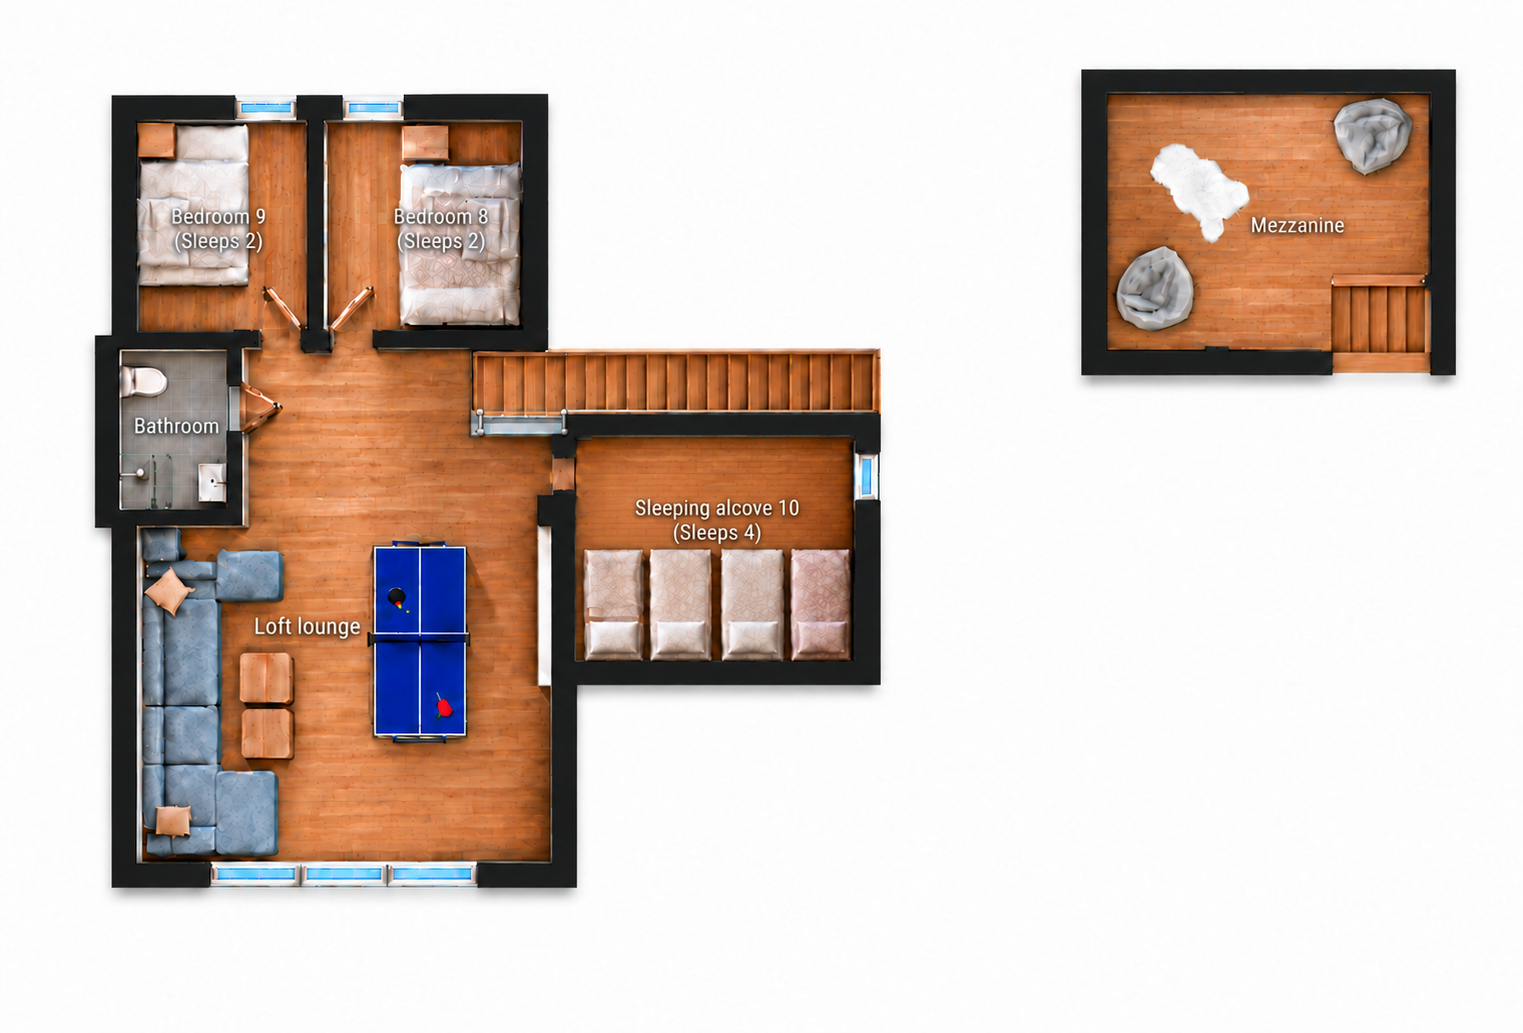
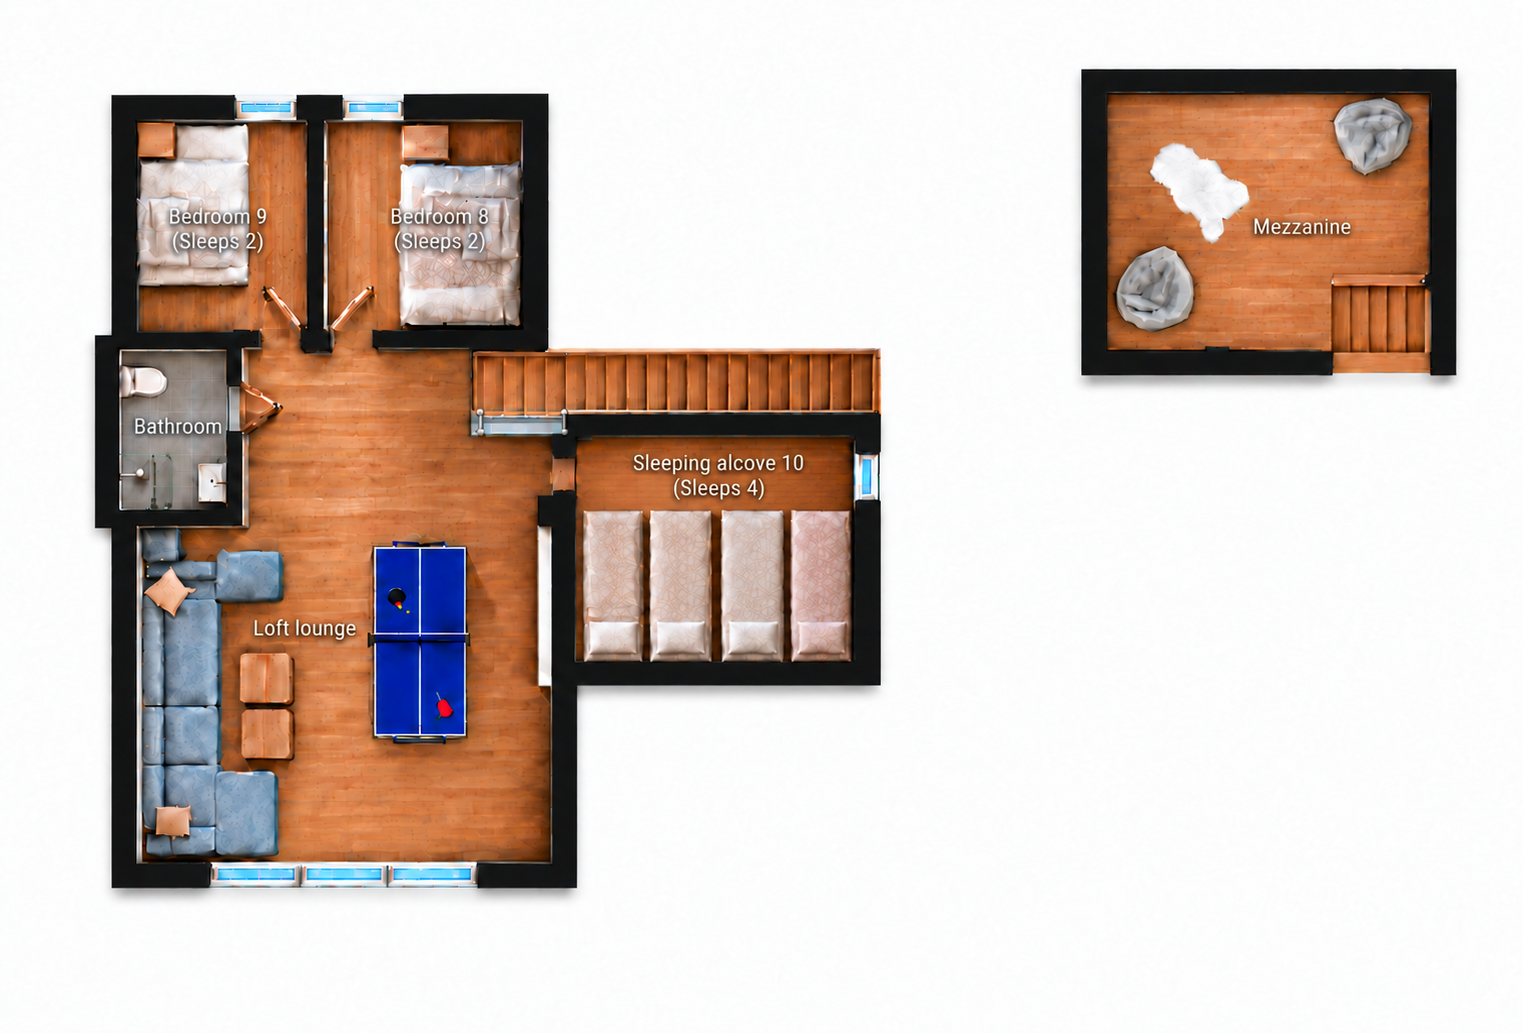
Adjust bedroom three foot clearance and extend alcove mattresses

diff --git a/docs/floor-plans.md b/docs/floor-plans.md
@@ -1,5 +1,43 @@
 # Three floor plans
 
+## Small Bedroom 3 foot clearance and longer Alcove 10 mattresses, 31 October 2026
+
+Shortened Bedroom3 doublebed slightly at foot to leave a small strip of floor before bottom windowwall, retaining leftside/north-south direction/two pillows/two sleepingplaces. Lengthened all four Alcove10 mattresses UPWARD per owner's redextensions while keeping their bottom pillowends anchored. Mainfloor unchanged. Built-in imagegen edit mode. Owner references: C:/Users/kalaj/AppData/Local/Temp/codex-clipboard-860cb2b1-88cb-4cdc-9e57-087b48627b8f.png and codex-clipboard-57748ef1-fca9-4543-8fd8-56e477f75950.png. Inputs were public/images/floor-plan-lower.png and floor-plan-loft.png at b90de39; English localised from selected Norwegian outputs for matching geometry.
+
+Final outputs under C:/Users/kalaj/.codex/generated_images/01a0dca7-09e8-7432-9c4d-03c13b499591/:
+- lower Norwegian: exec-a7ee495b-7135-4cc0-af6c-ae716e126dc1.png -> public/images/floor-plan-lower.png.
+- lower English: exec-8f999ba1-4b25-430e-ae3a-a13177ff54a1.png -> public/images/floor-plan-lower-en.png, after textcleanup of initial exec-74c94a4e-3ade-494d-8b55-b3fab89da42e.png.
+- loft Norwegian: exec-aa00ce0d-f7f0-4ec3-ab7a-740eef0faf77.png -> public/images/floor-plan-loft.png.
+- loft English: exec-fb95cad0-b87a-4d1d-8472-5aaead6d8f38.png -> public/images/floor-plan-loft-en.png.
+
+All four complete images inspected and selected local drawings checked in full-screen viewer. No code changes; production build checked by the connected Cloudflare build before publication.
+
+### bedSmallFootGapNb
+```text
+Use case: precise-object-edit. IMAGE1 full Norwegian lowerfloor plan is EDIT TARGET. IMAGE2 owner's redoutline shows Bedroom3 bed just A LITTLE SHORTER with a small floorstrip at FOOT/bottom between bed and windowwall. Change ONLY this bed in Soverom3: keep its north-south direction, two pillows sidebyside at TOP, position on LEFTside of room and EXACT current WIDTH. Shorten LENGTH about8–10percent by pulling FOOT/bottom end UP around10–12pixels in1721pxcanvas (currenty503 toabouty491). Keep pillow/head end atcurrenty385. Reveal a small clear woodfloorstrip between foot and lowerwindowwall; not a large gap. Preserve leftside placement, beddingdesign and two-person doublebed identity. Do NOT rotate, narrow, move to center/right or change room. Preserve Norwegian label 'Soverom 3 (2 soveplasser)' and allother text font/size. Everything else EXACTLY unchanged:allwalls/windows/doors/saunaglass,allotherbeds,26chairs,table,kitchen,stairs,sharp materials,wholecanvas/resolution. No redmarks/crop/globalresize. Only subtly shorten Bedroom3 bed at footend.
+```
+
+### alcoveLongerNb
+```text
+Use case: precise-object-edit. IMAGE1 full Norwegian loft plan is EDIT TARGET. IMAGE2 owner's redoutlines specify LONGER mattresses in Alkove10. Exactly FOUR mattresses sidebyside in projectingRIGHTalcove: extend each mattress UPWARD by about30–35pixels in1523pxcanvas, from currenttopy550 toaroundy515, matching redextensions. Keep each BOTTOM end/pillow againstBOTTOMwall aty660 FIXED, same widths,xpositions,gaps,order,count4 and beddingcolors. Keep pillows atBOTTOM; extend FOOT ends UPWARD, do NOT translate whole mattresses or rotate. New mattresses should be about25–30percent longer, still clearfloor between upperends and staircasewall. Preserve room label 'Alkove 10 (4 soveplasser)' legible in samefont/size; may shift it slightlyUP into clearfloor immediatelyabove mattresses if required, never remove or change wording. Preserve ALL other plan contents:bedrooms8/9,allwindows,doors,bathroom,sofa,twocoffeetables,pingpong,bothstairs,glassrail,separateHems,otherlabels,textures,quality,fullcanvas/resolution. No redmarks,crop,zoom,globalresize,newobjects. Only lengthen these FOUR existing mattresses towardTOP according to reference.
+```
+
+### bedFootGapEn
+```text
+Use case: text-localization ONLY. Translate Norwegian labels of this corrected full lower-floor drawing into English. Preserve ALL geometry/furniture/pixels except text. Preserve especially Bedroom3 vertical DOUBLE bed LEFTside with TWO pillows atTOP and the NEW SMALL WOODFLOOR GAP below its foot, above lowerwindowwall: do not lengthen back or move/resize. Translation: Teknisk rom->Utility room; Bod twice->Storage; Bad twice->Bathroom; Toalett->Toilet;Gang->Hallway;Terrasse->Terrace;Sauna unchanged. Bedrooms two lines exactly: Bedroom 1 (Sleeps 3), Bedroom 2 (Sleeps 3), Bedroom 3 (Sleeps 2), Bedroom 4 (Sleeps 4), Bedroom 5 (Sleeps 4). Same white font,size,shadow and textcenters. Keep all26chairs,windows,walls,saunaglass,doors,stairs,fullcanvas/resolution/quality unchanged. Only texttranslation.
+```
+
+### alcoveLongerEn
+```text
+Use case: text-localization ONLY. Translate Norwegian labels on this corrected full loft plan into English. 'Soverom 9 (2 soveplasser)'->'Bedroom 9 (Sleeps 2)';'Soverom 8 (2 soveplasser)'->'Bedroom 8 (Sleeps 2)';'Bad'->'Bathroom';'Loftstua'->'Loft lounge';'Alkove 10 (4 soveplasser)'->'Sleeping alcove 10 (Sleeps 4)';'Hems'->'Mezzanine'. Same white font,size,shadow,labelcenters. ABSOLUTELY preserve all furniture/geometry/materials especially FOUR newlyLONGERmattresses inrightalcove, topsaroundy510,bottom/pillowendsaty660: donotshorten,move,rotateorchange widths. Count4, pillowsatBOTTOM,clearfloorabove. Keep bothbedrooms,windows,bothstairs,glassrail,pingpong,sofa,coffeetables,separateHems identical. Same fullcanvas/resolution/sharpness, no crop/resize. Only translate labels.
+```
+
+### bedFootGapEnCleanup
+```text
+Use case: precise text artifact cleanup. Edit target full English lowerfloor plan. In Bedroom3 ONLY, there is a faint leftover Norwegian '(2' text ghost on white bed, immediately LEFT of correct '(Sleeps 2)' text. Erase only that faint '(2' remnant aroundx475–503,y451–478 in1721pxcanvas and restore white beddingtexture beneath. Keep correct complete two-line label 'Bedroom 3' / '(Sleeps 2)' unchanged at its presentposition, same font/size/shadow. Do not change ANY other pixel/content: bed's TWO pillows atTOP, doublebed north-south LEFTside, slightlyshorterlengthwithsmallWOODSTRIPatFOOT before bottomwindowwall, allwalls/windows/otherlabels/furniture/26chairs/fullcanvas/resolution remainexactly. Only remove stray '(2' text to left of correctlabel.
+```
+
+
 ## Bedroom 3 against left wall, 31 October 2026
 
 Moved Bedroom3 doublebed horizontally against its left/bathroom wall, keeping north-south direction, two pillows at top and two sleepingplaces. Built-in imagegen edit mode. Inputs were the Norwegian/English lowerfloor assets at db2ad19. Final NB exec-b1c62ce3-6289-4309-8ee5-3e73b5ecd4c1.png. Initial EN exec-e466f0df-1615-4db7-bb28-1487c0960258.png altered bedding, so rejected. Final EN localised from selected NB: exec-804f8a6a-75a3-439b-8217-8ac38bf4f66d.png. Outputs in C:/Users/kalaj/.codex/generated_images/01a0dca7-09e8-7432-9c4d-03c13b499591/, copied to public/images/floor-plan-lower.png and floor-plan-lower-en.png. Both visually checked.
